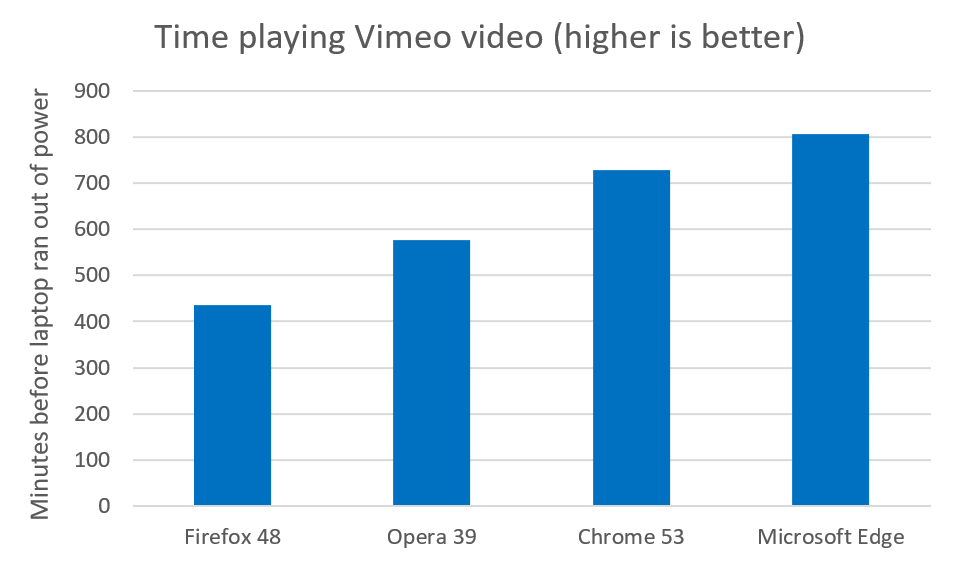
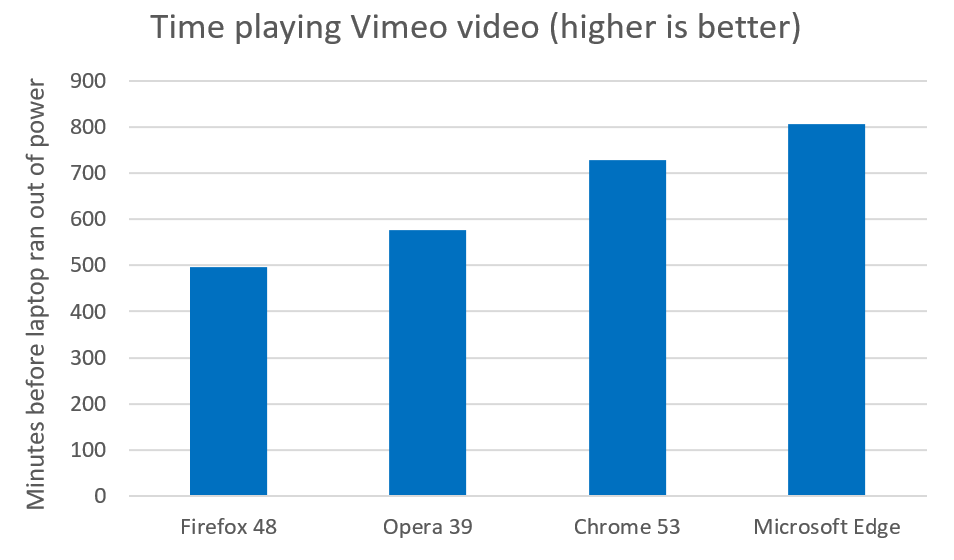
Updated Vimeo
Fixed Firefox numbers, added table with detailed results

diff --git a/2016-09/VimeoMethodology.html b/2016-09/VimeoMethodology.html
@@ -12,14 +12,14 @@
             <p>The Microsoft Windows team measured the time it took four identical Surface Book laptops to run fully through their batteries while streaming video from Vimeo. The results were recorded with a camera and a time lapse was made available publicly.</p>
             <p>The test was done on four Surface Books running 1607 (build 14393.105) and connected to the Internet through Wifi.</p>
 
-            <h2>Results</h2>
+            <h2>Results summary</h2>
             <p>Microsoft Edge lasted the longest of any browser in this test. Specifically, Microsoft Edge lasted:</p>
             <ul>
                 <li>11% longer than Chrome</li>
                 <li>40% longer than Opera</li>
-                <li>85% longer than Firefox</li>
+                <li>62% longer than Firefox</li>
             </ul>
-            <img src="VimeoResults1.png" width="483" height="289" />
+            <img src="VimeoResults1.png" width="477" height="280" />
 
             <h2>Methodology details</h2>
             
@@ -90,6 +90,36 @@
                 <li>Fullscreen all videos</li>
                 <li>Wait until all devices have run out of battery, recording the time for each of them</li>
             </ol>
+
+            <h2>Results details</h2>
+            <p>The times it took for each device running each respective browser to completely drain its battery are as follows:</p>
+            <table class="resultsTable">
+                <tr>
+                    <td></td>
+                    <td>Time</td>
+                    <td>Minutes</td>
+                </tr>
+                <tr>
+                    <td>Firefox 48</td>
+                    <td>8:16:49</td>
+                    <td>497</td>
+                </tr>
+                <tr>
+                    <td>Chrome 53</td>
+                    <td>12:08:28</td>
+                    <td>728</td>
+                </tr>
+                <tr>
+                    <td>Opera 39</td>
+                    <td>9:37:23</td>
+                    <td>577</td>
+                </tr>
+                <tr>
+                    <td>Microsoft Edge</td>
+                    <td>13:25:49</td>
+                    <td>806</td>
+                </tr>
+            </table>
         </div>
     </body>
 </html>
